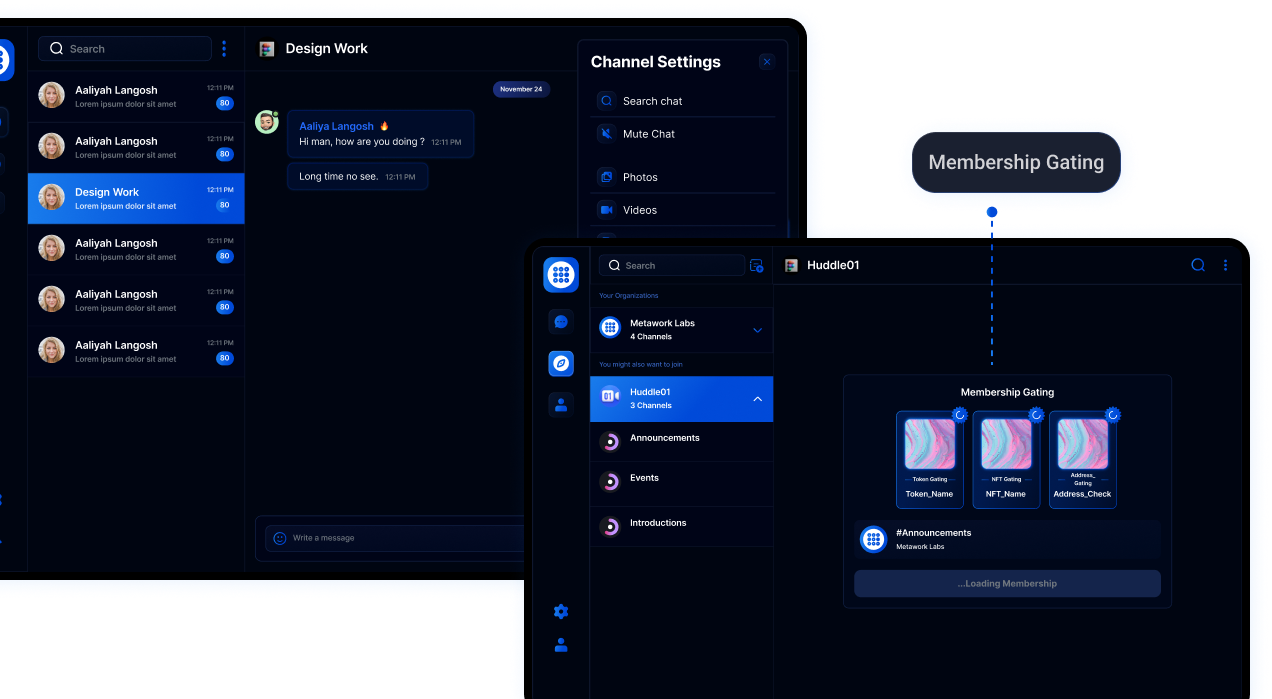
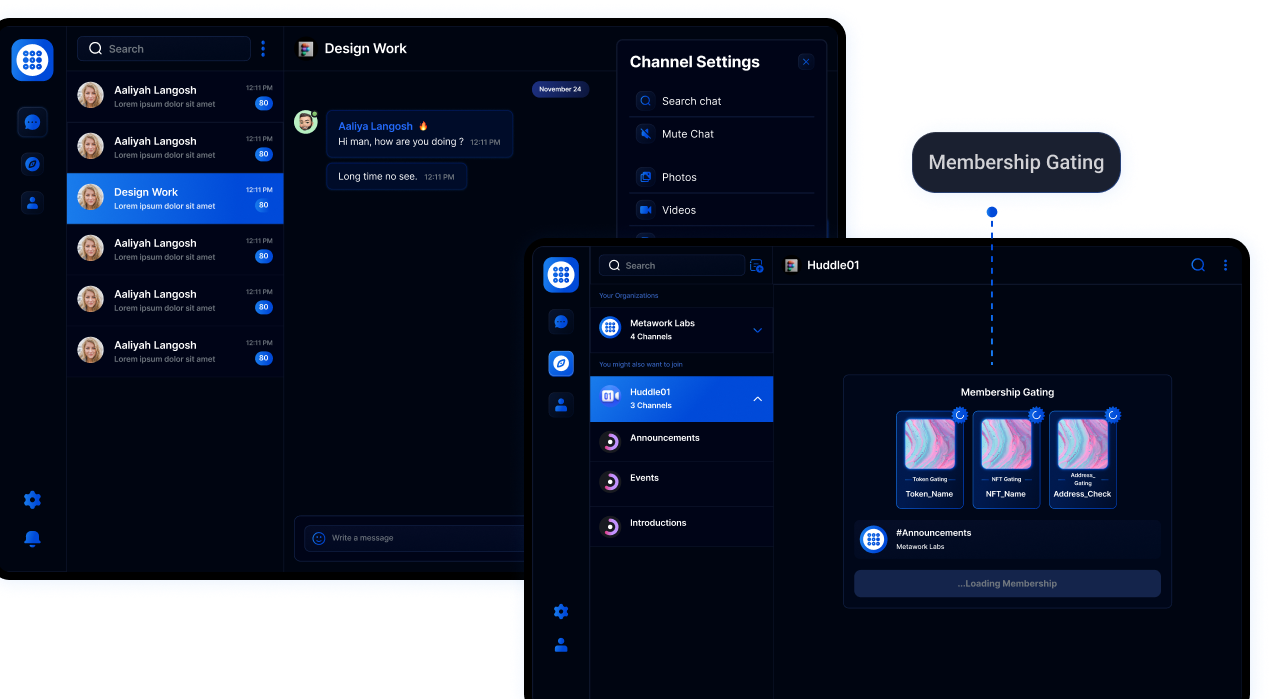
image change

diff --git a/src/pages/landing/index.tsx b/src/pages/landing/index.tsx
@@ -242,7 +242,9 @@ const LandingPage = () => {
             </div>
           </div>
           <div className="pt-3 chatBanner borderBox">
-            <Landing path="docsCard.png" />
+            <Landing
+              path="workspaceSuitWeb.png"
+            />
           </div>
 
           <div className="sectionSpacing">
